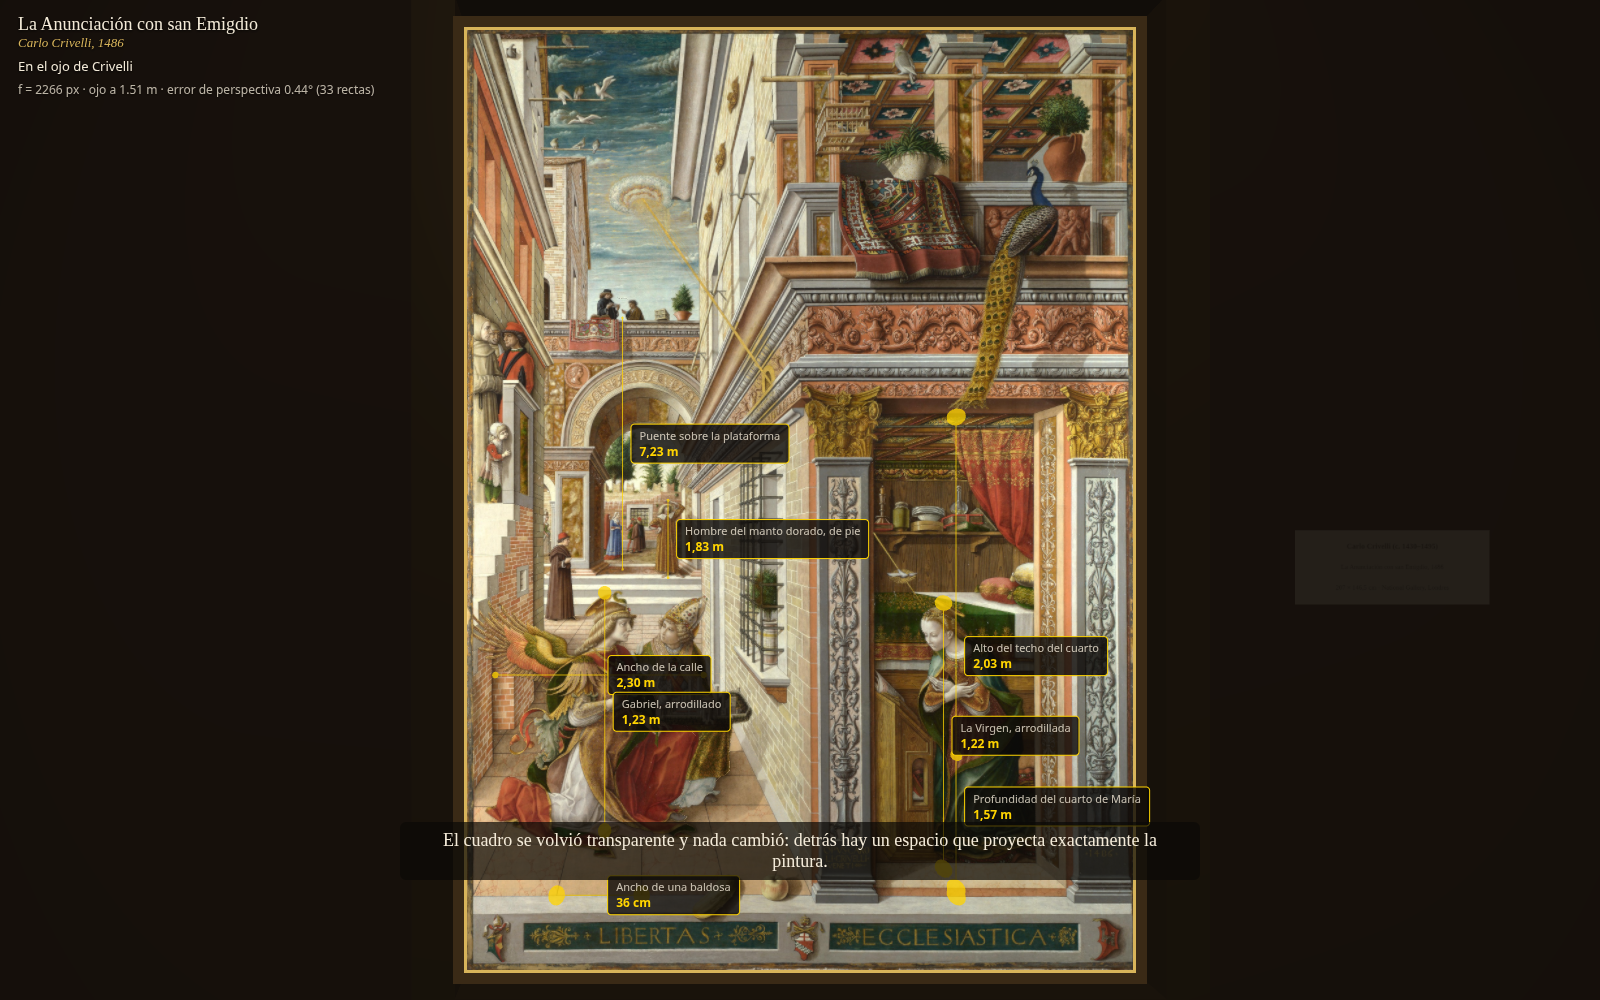
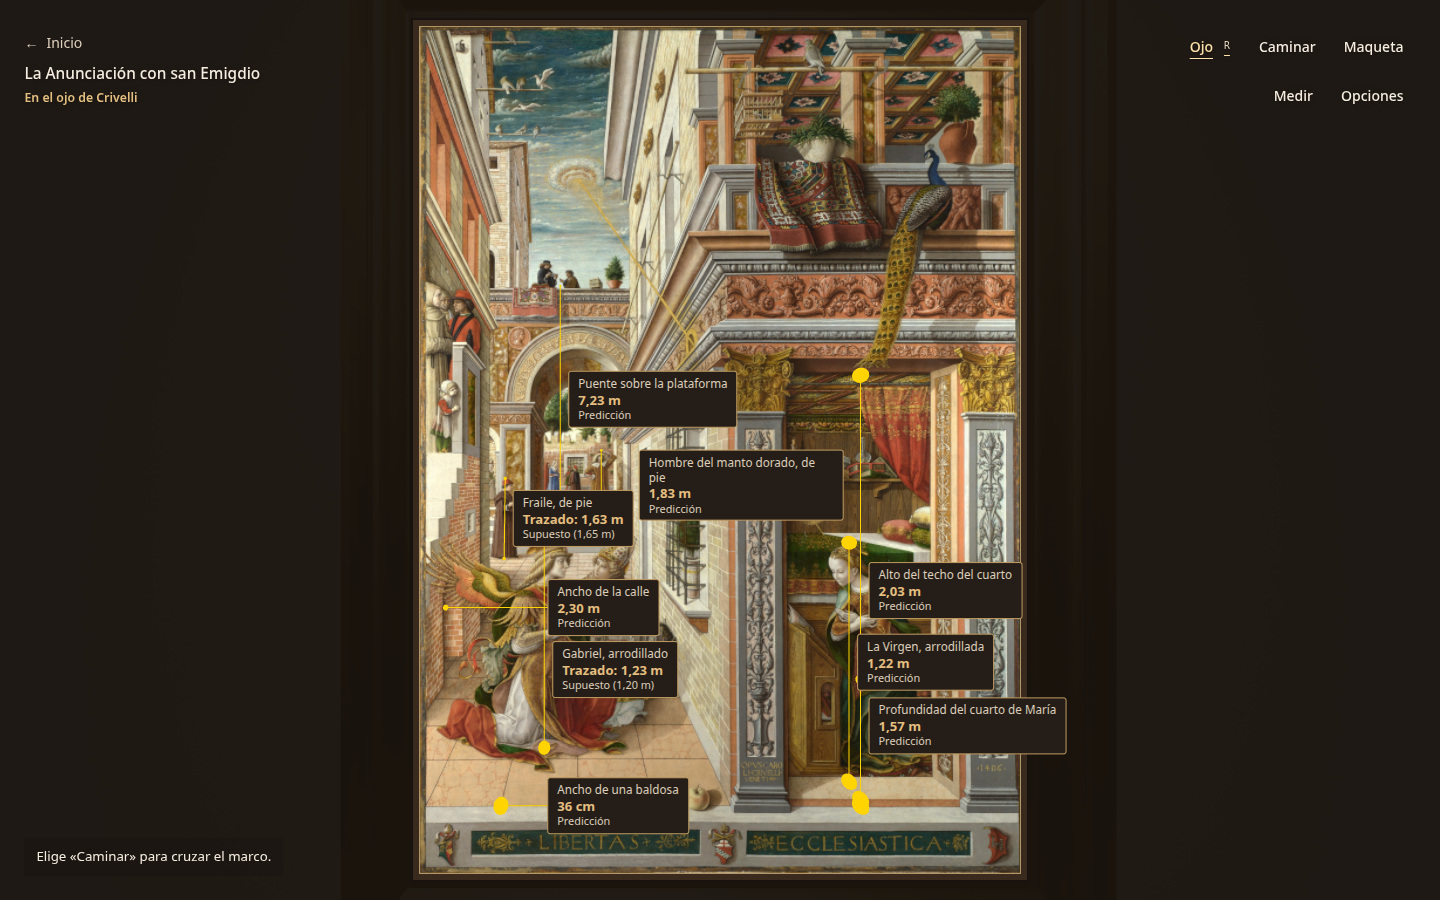
fix: aclara las mediciones y encuadra la casa de María

diff --git a/src/app/tour.js b/src/app/tour.js
@@ -2,16 +2,24 @@ import * as THREE from 'three';
 import { lookQuaternion } from './Viewer.js';
 import { PRESETS } from './measure.js';
 
+const STREET_COMPARISON = { pos: [-0.58, 1.7, -9.5], look: [0.4, 1.2, -1] };
+
 const STOPS = [
   { caption: 'La Anunciación cuelga en el museo a su tamaño real.', pose: 'museum', hold: 4 },
-  { caption: 'La marca amarilla señala el lugar desde donde Crivelli construyó la perspectiva.', pos: [0.4, 1.58, 1.65], look: [0, 0.3, 0], fov: 60, travel: 4, hold: 2 },
+  { caption: 'La placa del piso señala el lugar desde donde Crivelli construyó la perspectiva.', pos: [0.4, 1.58, 1.65], look: [0, 0.3, 0], fov: 60, travel: 4, hold: 2 },
   { caption: 'Al llegar al ojo, el cuadro se abre. La calle coincide con la pintura.', pose: 'eye', travel: 3, hold: 5 },
-  { caption: 'La altura de Gabriel se supuso para fijar la escala; la de María es una predicción: sale 1,22 m de rodillas. Al fondo, el hombre del manto dorado mide 1,83 m: Crivelli no es del todo coherente.', pose: 'eye', measure: true, hold: 5 },
+  { caption: 'Las alturas del fraile y de Gabriel son supuestos para fijar la escala. A esa escala, la altura de María (1,22 m de rodillas) y la del hombre del manto dorado (1,83 m) son predicciones.', pose: 'eye', measure: true, hold: 5 },
   { caption: 'Entramos al cuadro. El piso de baldosas se vuelve un plano real.', pos: [0.05, 1.51, -1.65], look: [-0.2, 1.2, -8], travel: 4, hold: 2 },
   { caption: 'En el muro izquierdo se ven la escalera, el niño y las figuras del balcón.', pos: [-0.4, 1.9, -4.5], look: [-2, 2, -6.9], fov: 61, travel: 5, hold: 3 },
-  { caption: 'En modo fiel, los huecos muestran las superficies que Crivelli dejó fuera de la pintura.', pos: [-0.58, 1.7, -9.5], look: [0.4, 1.2, -1], fill: 'fiel', travel: 4, hold: 3 },
-  { caption: 'En modo inferido, los fragmentos ocultos se completan a partir de la textura visible.', fill: 'inferido', hold: 4 },
-  { caption: 'La casa de María tiene una fachada, un techo de vigas y un cuarto detrás de las pilastras.', pos: [-0.4, 1.4, -2.3], look: [2.1, 1.3, -3.2], fill: 'neutro', travel: 5, hold: 3 },
+  { ...STREET_COMPARISON, caption: 'En modo fiel, los huecos muestran las superficies que Crivelli dejó fuera de la pintura.', fill: 'fiel', travel: 4, hold: 3 },
+  { ...STREET_COMPARISON, caption: 'En modo inferido, los fragmentos ocultos se completan a partir de la textura visible.', fill: 'inferido', hold: 4 },
+  {
+    caption: 'La casa de María tiene una fachada, un techo de vigas y un cuarto detrás de las pilastras.',
+    pos: [1.335, 1.36, -1.335], look: [1.64, 1.02, -3.11], fov: 59,
+    // Avanza por la calle y gira delante del muro derecho y de la fachada.
+    via: [[0.10, 1.55, -3.45], [0.36, 1.47, -1.65]],
+    fill: 'neutro', travel: 5, hold: 3,
+  },
   { caption: 'La maqueta deja ver cómo se distribuyen las fachadas, el arco y el fondo.', pos: [-38, 50, 58], look: [0.4, 3, -11], fov: 14, exterior: true, travel: 5, hold: 4 },
   { caption: 'Al volver al ojo, el espacio vuelve a ser la pintura.', pose: 'eye', travel: 5, hold: 3 },
 ];
@@ -58,7 +66,7 @@ export function createTour(viewer, measure, onUpdate) {
   function arrive(stop) {
     if (stop.pose === 'eye') viewer.openWindow();
     if (stop.measure) {
-      for (const id of ['maria', 'gabriel', 'hombre_dorado']) {
+      for (const id of ['maria', 'gabriel', 'fraile', 'hombre_dorado']) {
         measure.showPreset(PRESETS.find((preset) => preset.a[0] === id));
       }
     }
@@ -87,7 +95,10 @@ export function createTour(viewer, measure, onUpdate) {
     }
     const pose = poseFor(stage);
     if (stage.travel) {
-      viewer.animateTo({ ...pose, duration: stage.travel }, () => arrive(stage));
+      const path = stage.via && new THREE.CatmullRomCurve3([
+        viewer.camera.position.clone(), ...stage.via.map((point) => new THREE.Vector3(...point)), pose.position,
+      ]);
+      viewer.animateTo({ ...pose, path, duration: stage.travel }, () => arrive(stage));
       viewer.animation.paused = paused;
     } else {
       applyPose(pose);

diff --git a/src/app/measure.js b/src/app/measure.js
@@ -14,10 +14,11 @@ import { HELPER_LAYER } from '../scene/perspectiveHelpers.js';
  * y el elemento sobre el cual se proyecta.
  */
 export const PRESETS = [
-  { name: 'Ancho de una baldosa', kind: 'supuesto', a: ['piso_calle', [404, 3890]], b: ['piso_calle', [786, 3890]] },
+  { name: 'Ancho de una baldosa', kind: 'prediccion', a: ['piso_calle', [404, 3890]], b: ['piso_calle', [786, 3890]] },
   { name: 'Ancho de la calle', kind: 'prediccion', a: ['piso_calle', [128, 2900]], b: ['piso_calle', [1065, 2900]] },
   { name: 'La Virgen, arrodillada', kind: 'prediccion', a: ['maria', [2143, 2576]], b: ['maria', [2143, 3770]] },
-  { name: 'Gabriel, arrodillado', kind: 'supuesto', a: ['gabriel', [620, 2530]], b: ['gabriel', [620, 3600]] },
+  { name: 'Gabriel, arrodillado', kind: 'supuesto', assumedHeight: 1.20, a: ['gabriel', [620, 2530]], b: ['gabriel', [620, 3600]] },
+  { name: 'Fraile, de pie', kind: 'supuesto', assumedHeight: 1.65, a: ['fraile', [425, 2255]], b: ['fraile', [420, 2655]] },
   { name: 'Hombre del manto dorado, de pie', kind: 'prediccion', a: ['hombre_dorado', [905, 2115]], b: ['hombre_dorado', [905, 2462]] },
   { name: 'Profundidad del cuarto de María', kind: 'prediccion', a: ['cuarto_piso', [2200, 3860]], b: ['cuarto_piso', [2200, 3262]] },
   { name: 'Alto del techo del cuarto', kind: 'prediccion', a: ['fachada_maria', [2200, 1740]], b: ['fachada_maria', [2200, 3890]] },
@@ -82,7 +83,7 @@ export class MeasureTool {
       this.pending = { point: hit.point.clone(), marker: this.marker(hit.point), label };
     } else {
       this.group.remove(this.pending.marker);
-      this.add(this.pending.point, hit.point, null);
+      this.add(this.pending.point, hit.point);
       this.pending = null;
     }
   }
@@ -103,10 +104,10 @@ export class MeasureTool {
 
   showPreset(preset) {
     if (this.items.some(({ name }) => name === preset.name)) return;
-    this.add(this.lift(...preset.a), this.lift(...preset.b), preset.name, preset.kind);
+    this.add(this.lift(...preset.a), this.lift(...preset.b), preset);
   }
 
-  add(a, b, name, kind) {
+  add(a, b, { name, kind, assumedHeight } = {}) {
     const objects = [this.marker(a), this.marker(b)];
     const line = new THREE.Line(new THREE.BufferGeometry().setFromPoints([a, b]), this.lineMat);
     line.renderOrder = 10;
@@ -124,7 +125,7 @@ export class MeasureTool {
       div.appendChild(title);
     }
     const value = document.createElement('b');
-    value.textContent = fmt(d);
+    value.textContent = assumedHeight ? `Trazado: ${fmt(d)}` : fmt(d);
     div.appendChild(value);
     if (dy > 0.05 && Math.abs(dy - d) > 0.03) {
       const vertical = document.createElement('small');
@@ -134,7 +135,7 @@ export class MeasureTool {
     if (kind) {
       const metadata = document.createElement('small');
       metadata.className = 'measure-kind';
-      metadata.textContent = kind === 'supuesto' ? 'Supuesto' : 'Predicción';
+      metadata.textContent = kind === 'supuesto' ? `Supuesto (${fmt(assumedHeight)})` : 'Predicción';
       div.dataset.kind = kind;
       div.appendChild(metadata);
     }

diff --git a/src/app/Viewer.js b/src/app/Viewer.js
@@ -111,7 +111,7 @@ export class Viewer {
     // Teclas apretadas. Si la ventana pierde el foco (Esc del pointer lock, cambio
     // de pestaña, clic en el panel) el navegador no envía "keyup" y la tecla quedaría
     // apretada para siempre: por eso se vacía el conjunto en esos casos.
-    const typing = (e) => e.target instanceof HTMLElement && e.target.closest('input, select, textarea');
+    const typing = (e) => e.target instanceof HTMLElement && e.target.closest('input, select, textarea, dialog[open]');
     window.addEventListener('keydown', (e) => {
       if (!typing(e) && !e.repeat) this.keys.add(e.code);
     });
@@ -269,12 +269,13 @@ export class Viewer {
   }
 
   /** Anima posición, orientación, "painterness" y FOV. */
-  animateTo({ position, quaternion, painterness, fov, duration = 2.5, onProgress }, onDone) {
+  animateTo({ position, quaternion, painterness, fov, path, duration = 2.5, onProgress }, onDone) {
     this.orbit.enabled = false;
     if (this.pointerLock.isLocked) this.pointerLock.unlock();
     this.animation = {
       t: 0,
       duration,
+      path,
       from: {
         position: this.camera.position.clone(),
         quaternion: this.camera.quaternion.clone(),
@@ -438,7 +439,8 @@ export class Viewer {
       const a = this.animation;
       a.t = Math.min(1, a.t + dt / a.duration);
       const e = easeInOut(a.t);
-      this.camera.position.lerpVectors(a.from.position, a.to.position, e);
+      if (a.path) a.path.getPointAt(e, this.camera.position);
+      else this.camera.position.lerpVectors(a.from.position, a.to.position, e);
       this.camera.quaternion.slerpQuaternions(a.from.quaternion, a.to.quaternion, e);
       // El frustum cambia al final del viaje: así el "clic" de la pintura llega al llegar.
       const pe = a.to.painterness > a.from.painterness ? easeInOut(Math.max(0, (a.t - 0.35) / 0.65)) : easeInOut(Math.min(1, a.t / 0.6));
@@ -475,6 +477,8 @@ export class Viewer {
     // Las aristas de evidencia se desvanecen al llegar al ojo: ahí manda la pintura.
     const k = this.eyeFactor();
     this.uniforms.uAtPainterEye.value = k > 1 - 1e-6;
+    this.museum.plaque.material.opacity = 1 - THREE.MathUtils.smoothstep(k, 0.85, 0.95);
+    this.museum.plaque.visible = k < 0.95;
     for (const [m, base] of this.edgeMaterials) m.opacity = base * (1 - k);
     this.renderer.render(this.scene, this.camera);
     this.sampleMuseumPerformance();

diff --git a/src/main.js b/src/main.js
@@ -258,6 +258,16 @@ function setupControls(viewer, calib) {
   const settings = viewer.settings = {};
   const plan = document.getElementById('plan');
   const planImage = document.getElementById('plan-img');
+  const planExpand = document.getElementById('plan-expand');
+  const planDialog = document.getElementById('plan-dialog');
+  const planDialogImage = document.getElementById('plan-dialog-img');
+  planExpand.addEventListener('click', () => {
+    planDialogImage.src = planImage.src;
+    viewer.keys.clear();
+    if (viewer.pointerLock.isLocked) viewer.pointerLock.unlock();
+    planDialog.showModal();
+  });
+  planDialog.addEventListener('close', () => planExpand.focus());
   const overlay = document.getElementById('overlay');
   const applySettings = {
     fillMode: (value) => viewer.setFillMode(value),
@@ -326,7 +336,7 @@ function setupControls(viewer, calib) {
   viewer.emit();
 
   window.addEventListener('keydown', (event) => {
-    if (experience.hidden || experience.inert || document.getElementById('credits').open) return;
+    if (experience.hidden || experience.inert || planDialog.open || document.getElementById('credits').open) return;
     if (event.code === 'Escape' && openTool) showTool(null);
     else if (event.code === 'Escape' && tour.active) tour.stop();
     else if (event.code === 'KeyR' && !event.repeat && !event.target.closest?.('input, select, textarea')) viewer.returnToEye();

diff --git a/index.html b/index.html
@@ -130,8 +130,18 @@
           <h2>Planta del piso</h2>
           <button id="plan-close" class="text-button" type="button">Cerrar</button>
         </header>
-        <img id="plan-img" alt="Planta del piso de la calle obtenida con una homografía" />
+        <button id="plan-expand" type="button" aria-label="Ampliar planta del piso" aria-haspopup="dialog">
+          <img id="plan-img" alt="Planta del piso de la calle obtenida con una homografía" />
+        </button>
       </aside>
+
+      <dialog id="plan-dialog" aria-labelledby="plan-dialog-title">
+        <header class="tools-header">
+          <h2 id="plan-dialog-title">Planta del piso</h2>
+          <form method="dialog"><button class="text-button" type="submit" autofocus>Cerrar</button></form>
+        </header>
+        <img id="plan-dialog-img" alt="Planta del piso de la calle obtenida con una homografía" />
+      </dialog>
     </div>
 
     <dialog id="credits" aria-labelledby="credits-title">

diff --git a/src/viewer.css b/src/viewer.css
@@ -284,6 +284,37 @@ body[data-mode='tour'][data-framing='stacked'] #hud :is(h2, p) { display: none; 
 
 #plan img { display: block; width: 100%; max-height: min(56dvh, 500px); object-fit: contain; background: var(--paper); }
 
+#plan-expand {
+  display: block;
+  width: 100%;
+  padding: 0;
+  border: 0;
+  background: transparent;
+  cursor: zoom-in;
+}
+
+#plan-dialog {
+  max-width: calc(100vw - 16px);
+  max-height: 100dvh;
+  padding: 0 12px 12px;
+  color: var(--shell-ink);
+  background: var(--shell);
+  border: 1px solid var(--shell-rule);
+  border-radius: 3px;
+}
+
+#plan-dialog::backdrop { background: rgb(26 18 12 / 0.84); }
+#plan-dialog .tools-header { min-height: 42px; margin-bottom: 6px; }
+
+#plan-dialog img {
+  display: block;
+  width: auto;
+  height: min(90dvh, calc(100dvh - 64px));
+  max-width: 100%;
+  object-fit: contain;
+  background: var(--paper);
+}
+
 .measure-label {
   position: absolute;
   top: 0;

diff --git a/src/scene/museum.js b/src/scene/museum.js
@@ -324,7 +324,7 @@ function createPlaque() {
   texture.colorSpace = THREE.SRGBColorSpace;
   texture.anisotropy = 4;
   const plaque = new THREE.Mesh(new THREE.PlaneGeometry(0.30, 0.22),
-    new THREE.MeshBasicMaterial({ map: texture, toneMapped: false }));
+    new THREE.MeshBasicMaterial({ map: texture, transparent: true, depthWrite: false, toneMapped: false }));
   plaque.name = 'museum-plaque';
   return plaque;
 }

diff --git a/README.md b/README.md
@@ -32,7 +32,7 @@ npm run dev
 | *Maqueta* | Vista casi axonométrica de toda la reconstrucción |
 | *Opciones → Superficies ocultas* | Modo fiel, neutro (por defecto) o inferido |
 | *Medir* | Selecciona dos puntos para obtener una distancia en metros. Al caminar, apunta con la mira y selecciona cada punto con un clic. También hay mediciones sugeridas. |
-| *Opciones → Perspectiva y geometría* | Superponer la pintura, marcar lo inferido, ver aristas medidas y supuestas, líneas de fuga y planta reconstruida |
+| *Opciones → Perspectiva y geometría* | Superponer la pintura, marcar lo inferido, ver aristas medidas y supuestas, líneas de fuga y planta reconstruida. Haz clic en la planta para ampliarla. |
 | *Recorrido guiado* | 11 paradas en 73 s de reproducción. Usa **Pausar**, **Siguiente** o **Detener**. `Esc` también detiene el recorrido. |
 | *Opciones* | Perspectiva aérea dentro de «Perspectiva y geometría», captura PNG y créditos |
 
@@ -113,12 +113,13 @@ Es la idea central de la *single view metrology* de Criminisi: cada clic es un r
 | Ancho de la calle | 2,30 m |
 | La Virgen, arrodillada | 1,22 m |
 | Gabriel, arrodillado | 1,23 m |
+| Fraile, de pie | 1,63 m |
 | Hombre del manto dorado, de pie (a 12 m del ojo) | 1,83 m |
 | Profundidad del cuarto de María | 1,57 m |
 | Alto del techo del cuarto | 2,03 m |
 | Puente sobre la plataforma | 7,23 m |
 
-Las etiquetas distinguen los **supuestos** de escala (Gabriel y la baldosa) y las **predicciones** del modelo. Los 36 cm de la baldosa que muestra el visor corresponden a la escala vigente. La validación usa 29,2 cm como un supuesto alternativo.
+Las etiquetas muestran las alturas **supuestas** para fijar la escala (fraile de pie, 1,65 m y Gabriel arrodillado, 1,20 m) junto a las longitudes de los segmentos trazados sobre sus recortes. La baldosa de 36 cm es una **predicción** a partir de esa escala. La validación cruza el resultado con un supuesto alternativo de 29,2 cm para la baldosa.
 
 ## Validación cruzada
 
@@ -133,7 +134,7 @@ Las dos referencias humanas difieren en 3,2 cm y su media de **1,513 m** fija la
 
 ### El museo y la ventana de Alberti (`src/scene/museum.js`)
 
-El cuadro de la sala no está colocado a ojo: es la ventana de Alberti calculada. El visor conserva un ancho de calibración de 146,5 cm, una distancia de 111 cm al ojo y un punto de fuga a 1,51 m de altura. Por eso el piso de la sala es el mismo plano que el piso de la calle pintada, y la base del cuadro queda a unos 56 cm del suelo. Al llegar al ojo, el cuadro se vuelve transparente sin que la imagen cambie. El anillo y la cartela señalan el punto en el piso, y una esfera indica la altura del ojo. La maqueta conserva la línea vertical auxiliar para leer esa altura respecto del suelo.
+El cuadro de la sala funciona como la ventana de Alberti calculada. El visor conserva un ancho de calibración de 146,5 cm, una distancia de 111 cm al ojo y un punto de fuga a 1,51 m de altura. Por eso el piso de la sala es el mismo plano que el piso de la calle pintada, y la base del cuadro queda a unos 56 cm del suelo. Al llegar al ojo se oculta la cédula y el cuadro se abre. La placa de latón y el anillo señalan el punto en el piso. La maqueta conserva la línea vertical auxiliar y la esfera para leer la altura del ojo respecto del suelo.
 
 Un portal de stencil restringe el dibujo de la calle al interior del marco cuando se mira desde la sala. El mapa de profundidad de la pintura se calcula por separado. Al caminar, los límites amortiguan el movimiento hacia las paredes. El marco permite cruzar en ambos sentidos una vez abierto y el paso sobre los escalones del fondo eleva al visitante hasta la plataforma. Entre el marco y el piso pintado hay un pequeño umbral de yeso marcado como `assumed`, visible desde la calle y excluido del mapa de profundidad. En órbita y maqueta se ocultan la sala y el portal.
 
